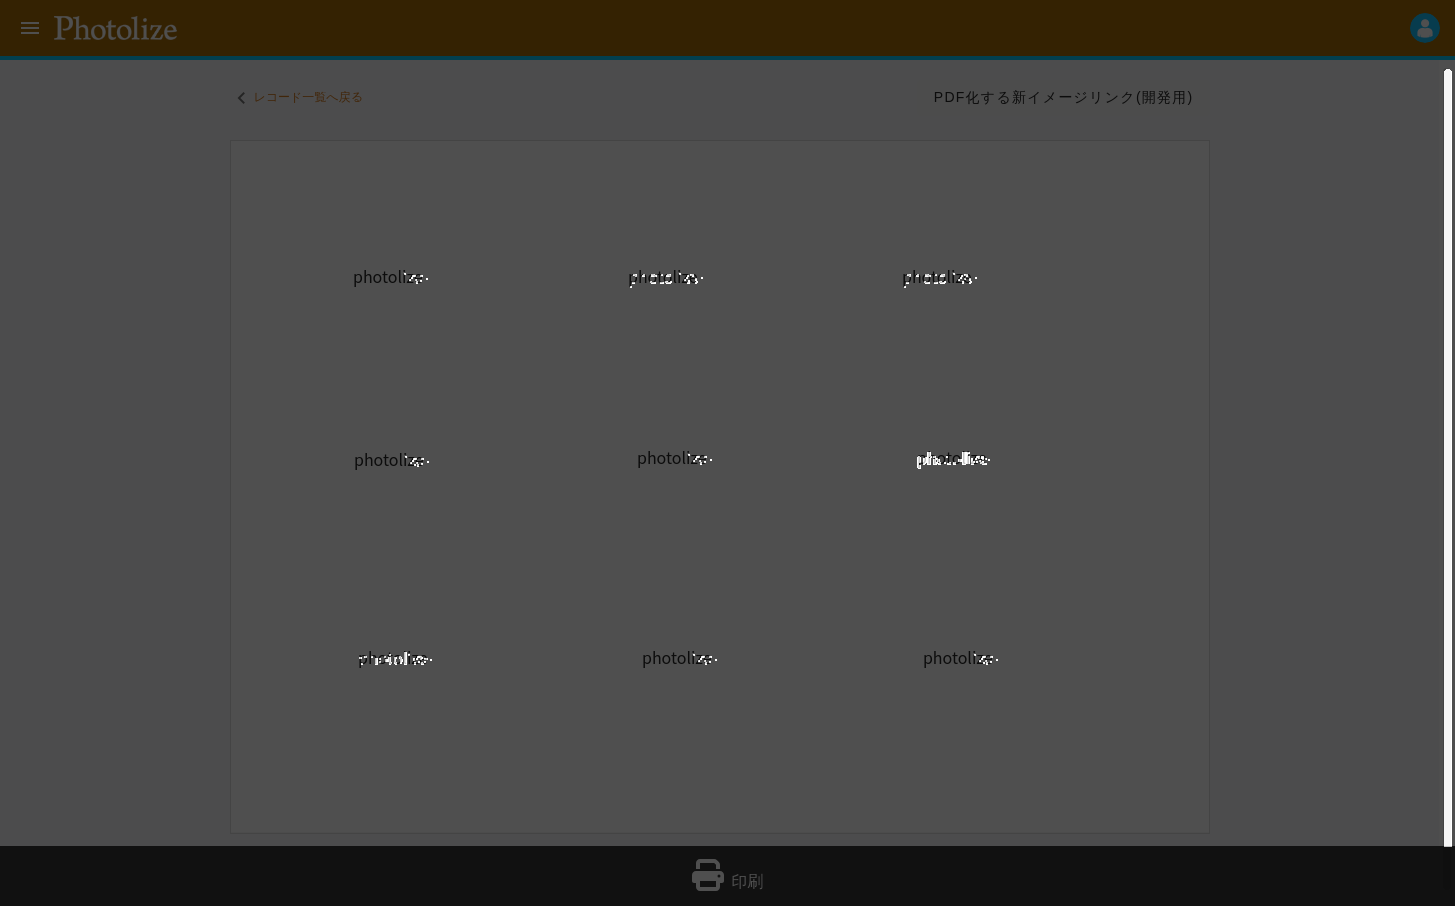
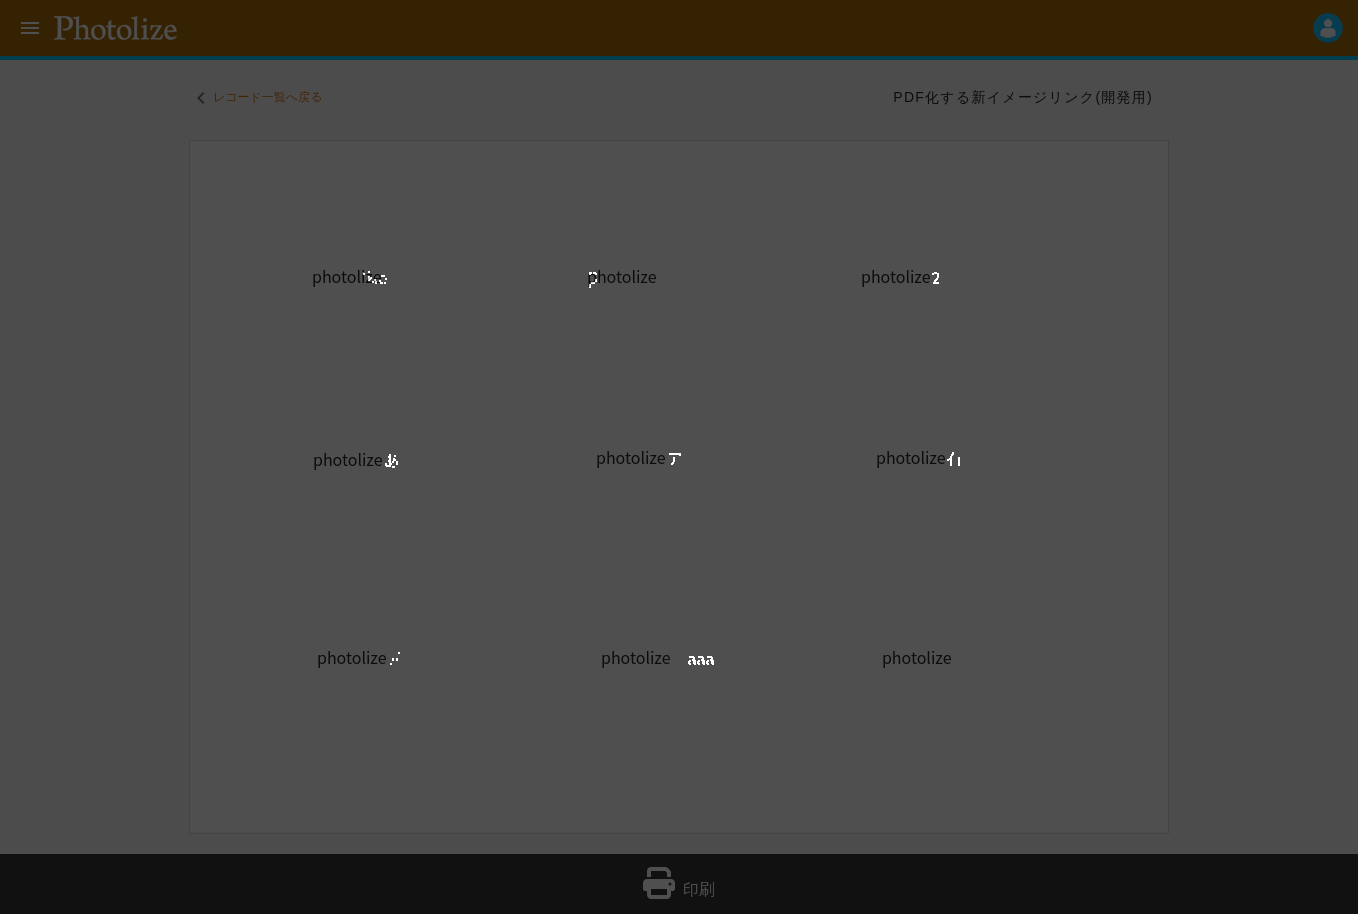
fix: img/base.pngの撮り直し等

diff --git a/python/TestScript/photolize/singleLineText/diff_img_original.py b/python/TestScript/photolize/singleLineText/diff_img_original.py
@@ -7,13 +7,13 @@ import os
 
 
 # 保存先ディレクトリを作成
-output_dir = os.path.join(os.path.dirname(os.path.abspath(__file__)), "high_png/")
+output_dir = os.path.join(os.path.dirname(os.path.abspath(__file__)), "img/")
 # フォルダが存在しない場合は作成
 if not os.path.exists(output_dir):
     os.makedirs(output_dir)
 # ファイル名を生成
 output_file_name_A = 'base.png'
-output_file_name_B = 'chg_embed.png'
+output_file_name_B = 'chg_verticalWrite.png'
 # ファイルパスを作成
 output_file_path_A = os.path.join(output_dir, output_file_name_A)
 output_file_path_B = os.path.join(output_dir, output_file_name_B)
@@ -66,35 +66,6 @@ result_bin = cv2.morphologyEx(result_bin, cv2.MORPH_OPEN, kernel) # オープニ
 result_bin_rgb = cv2.cvtColor(result_bin, cv2.COLOR_GRAY2RGB)
 result_add = cv2.addWeighted(imgA, 0.3, result_bin_rgb, 0.7, 2.2) # ２.２はガンマ値。大きくすると白っぽくなる
 
-### 変更前と変更後の色分け ###
-## 変更前の色付け ##
-# 白色の範囲を定義
-lower_white = (128, 128, 128)  # 下限（B、G、R）
-upper_white = (254, 254, 254)  # 上限（B、G、R）
-
-# 白色の範囲内にあるピクセルをマスクとして取得
-white_mask = cv2.inRange(result_add, lower_white, upper_white)
-
-# 新しい色（緑色）を指定
-new_color = (0, 255, 0)  # (B、G、R)
-
-# ピクセルの色を変更
-result_add[white_mask > 0] = new_color
-
-## 変更後の色付け ##
-# 白色の範囲を定義
-lower_white = (255, 255, 255)  # 下限（B、G、R）
-upper_white = (255, 255, 255)  # 上限（B、G、R）
-
-# 白色の範囲内にあるピクセルをマスクとして取得
-white_mask = cv2.inRange(result_add, lower_white, upper_white)
-
-# 新しい色（赤色）を指定
-new_color = (0, 0, 255)  # (B、G、R)
-
-# ピクセルの色を変更
-result_add[white_mask > 0] = new_color
-
 ### 差異が検出されたか判定 ###
 # 2値画像（result_bin）の白いピクセル（差分が存在する部分）の数をカウント
 white_pixel_count = cv2.countNonZero(result_bin)
@@ -114,10 +85,10 @@ else:
 # 現在の日付を取得してフォーマット
 current_date = datetime.now().strftime("%m-%d_%H-%M-%S")
 # ファイル名を生成
-output_file_name = f"diff_color_{current_date}.png"
+output_file_name = f"diff_{output_file_name_B.split('_')[1]}"
 # output_file_name = f"diff_{current_date}.png"
 
-output_dir2 = os.path.join(os.path.dirname(os.path.abspath(__file__)), "diff_color_high_png/")
+output_dir2 = os.path.join(os.path.dirname(os.path.abspath(__file__)), "diff_img/")
 # output_dir2 = os.path.join(os.path.dirname(os.path.abspath(__file__)), "diff_high_png/")
 
 # ファイルパスを作成

diff --git a/python/TestScript/photolize/singleLineText/png_to_high_png.py b/python/TestScript/photolize/singleLineText/png_to_high_png.py
@@ -21,7 +21,7 @@ input_dir = os.path.join(os.path.dirname(os.path.abspath(__file__)), "img/")
 if not os.path.exists(input_dir):
     os.makedirs(input_dir)
 # ファイル名を生成
-input_file_name = 'chg_position.png'
+input_file_name = 'chg_position2.png'
 # ファイルパスを作成
 input_file_path = os.path.join(input_dir, input_file_name)
 
